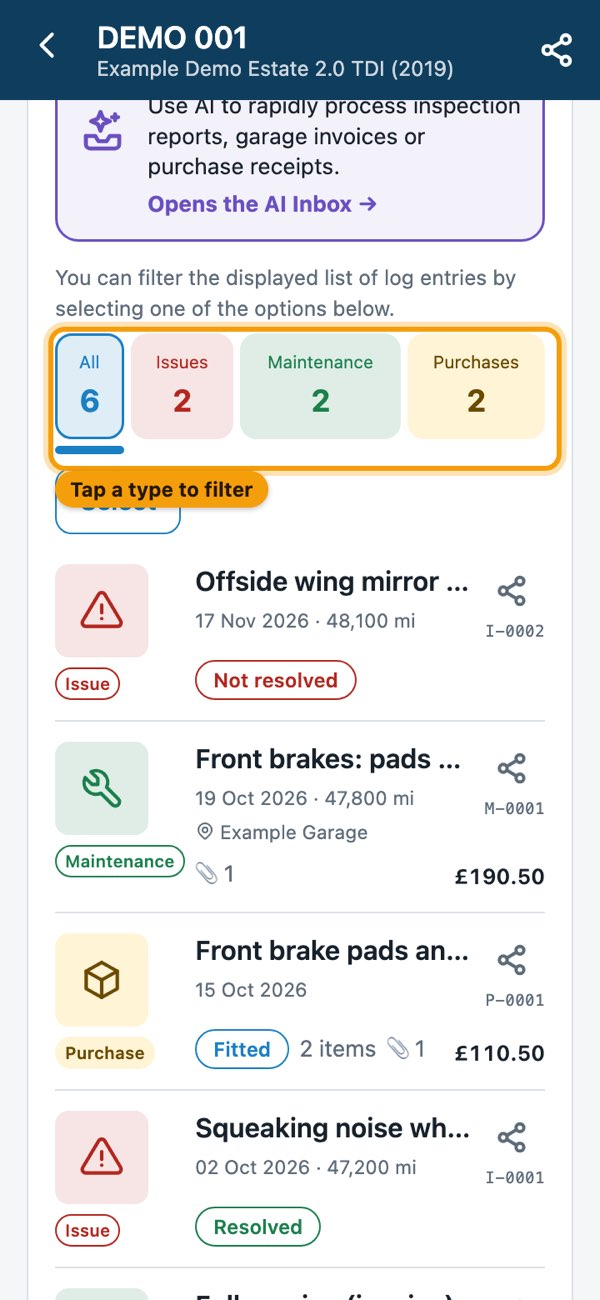
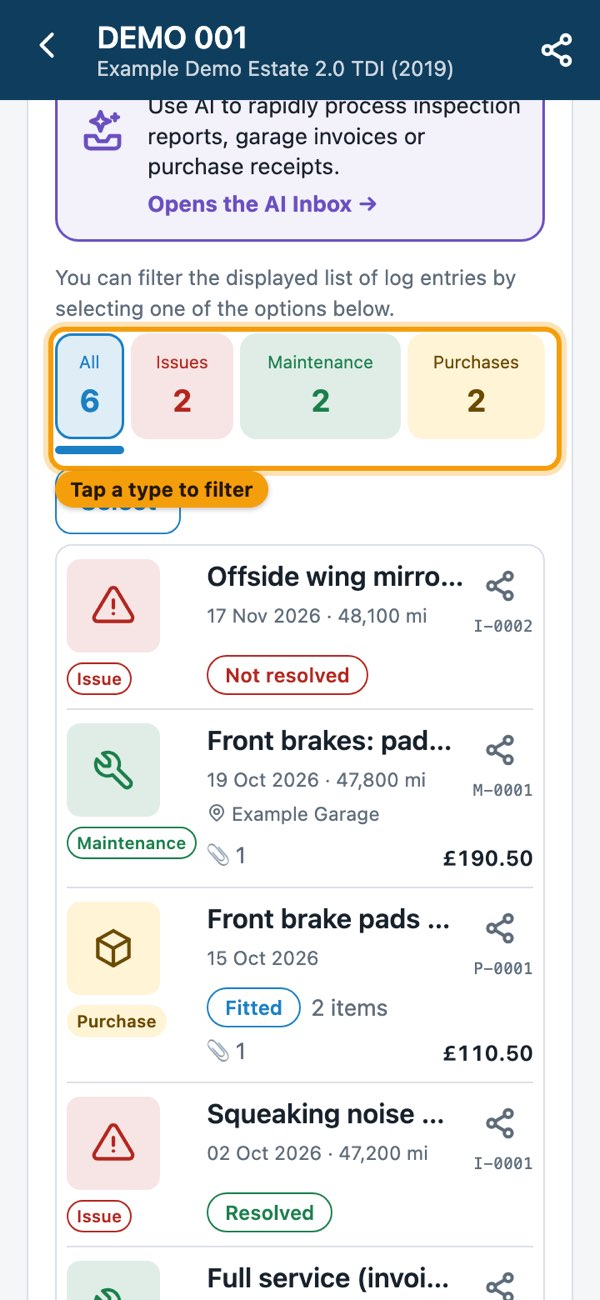
Car page: log first, then Fluids | Bulbs | Parts, then Odometer; the log shows five entries and scrolls, and the three sections are shorter

Changed region(s): [[0.09, 0.4308, 0.93, 1.0], [0.81, 0.9538, 0.87, 1.0]]

diff --git a/web/views-cars.js b/web/views-cars.js
@@ -339,7 +339,7 @@
   }
 
   // which sections of a car's page are open (kept so that coming back to the page finds it as it was left)
-  Views.getOpenCards = function () { return { carId: openCards.carId, keys: Object.assign({}, openCards.keys) }; };
+  Views.getOpenCards = function () { return { carId: openCards.carId, keys: Object.assign({}, openCards.keys), logTop: openCards.logTop }; };
   Views.setOpenCards = function (o) { openCards = o; };
   /** Open the named sections the next time this car's page is drawn (and only then). */
   Views.openCarSections = function (carId, keys) { openCards = { carId: carId, keys: keys, once: true }; };
@@ -523,23 +523,27 @@
           car.notes ? el('div', { class: 'car-notes' }, [el('div', { class: 'car-notes-label', text: 'Notes' }), notesEl, notesMore]) : null,
           mineBtn ? el('div', { class: 'btn-row' }, [mineBtn]) : null,
         ]),
-        collapsible('Odometer Log', el('section', { class: 'card' }, [
-          el('h2', { text: 'Odometer Log' }),
-          el('div', { class: 'big-number', text: car.odometer === null ? 'Not set' : num(car.odometer) + ' mi' }),
-          car.odometerUpdatedAt ? el('div', { class: 'muted small-text', text: 'Updated ' + fmtDate(car.odometerUpdatedAt) }) : null,
-          odoForm,
-        ]), car.odometer === null ? 'Not set' : num(car.odometer) + ' mi'),
-        collapsible('Maintenance & Issues Log', EntryUI.historyCard(car, page && page.entries), page && page.entries ? countText(page.entries.length, 'entry', 'entries') : ''),
-        collapsible('Reminders', RemindersUI.card(car, page && page.tasks), page && page.tasks ? reminderHint(page.tasks) : ''),
+        collapsible('Maintenance & Issues Log', EntryUI.historyCard(car, page && page.entries, openCards), page && page.entries ? countText(page.entries.length, 'entry', 'entries') : ''),
         collapsible('Fluids | Bulbs | Parts', el('section', { class: 'card' }, [
           el('h2', { text: 'Fluids | Bulbs | Parts' }),
           catalogueBox,
           fluids.some(isAiRow) ? aiCheckNote() : null,
-          fluidRows.length ? el('h3', { class: 'spec-group kind-fluid', text: '💧 Fluids' }) : null,
-          fluidRows.length ? el('ul', { class: 'fluids' }, fluidRows) : (bulbRows.length ? null : el('p', { class: 'muted', text: 'No fluid specs recorded yet. Tap Edit car to add them.' })),
-          bulbRows.length ? el('h3', { class: 'spec-group kind-bulb', text: '💡 Bulbs' }) : null,
-          bulbRows.length ? el('ul', { class: 'fluids' }, bulbRows) : null,
+          fluidRows.length || bulbRows.length ? el('div', { class: 'spec-scroll', role: 'region', tabindex: '0', 'aria-label': 'Fluids and bulbs' }, [
+            fluidRows.length ? el('h3', { class: 'spec-group kind-fluid', text: '💧 Fluids' }) : null,
+            fluidRows.length ? el('ul', { class: 'fluids' }, fluidRows) : null,
+            bulbRows.length ? el('h3', { class: 'spec-group kind-bulb', text: '💡 Bulbs' }) : null,
+            bulbRows.length ? el('ul', { class: 'fluids' }, bulbRows) : null,
+          ]) : el('p', { class: 'muted', text: 'No fluid specs recorded yet. Tap Edit car to add them.' }),
         ]), '', el('a', { class: 'btn small secondary section-edit', href: '#/car/' + car.id + '/fluids', text: 'Edit', 'aria-label': 'Edit the fluids, bulbs and specifications' })),
+        collapsible('Odometer Log', el('section', { class: 'card' }, [
+          el('h2', { text: 'Odometer Log' }),
+          el('div', { class: 'odo-now' }, [
+            el('div', { class: 'big-number', text: car.odometer === null ? 'Not set' : num(car.odometer) + ' mi' }),
+            car.odometerUpdatedAt ? el('div', { class: 'muted small-text', text: 'Updated ' + fmtDate(car.odometerUpdatedAt) }) : null,
+          ]),
+          odoForm,
+        ]), car.odometer === null ? 'Not set' : num(car.odometer) + ' mi'),
+        collapsible('Reminders', RemindersUI.card(car, page && page.tasks), page && page.tasks ? reminderHint(page.tasks) : ''),
         collapsible('Documents', DocumentsUI.card(car, page && page.documents), page && page.documents ? countText(page.documents.length, 'document', 'documents') : ''),
         collapsible('Costs', EntryUI.costsCard(car, page && page.costs)),
         collapsible('Guest access', GuestUI.card(car), car.guestEnabled ? 'On' : 'Off'),

diff --git a/web/views-entries.js b/web/views-entries.js
@@ -195,7 +195,12 @@
     return card;
   }
 
-  function historyCard(car, preloaded) {
+  // The log shows this many entries at a time; the rest are reached by scrolling inside the list.
+  var LOG_ROWS = 5;
+
+  // `place` remembers how far the list had been scrolled (place.logTop), so coming back from an entry finds it there.
+  function historyCard(car, preloaded, place) {
+    place = place || {};
     var chips = el('div', { class: 'filter-box', role: 'group', 'aria-label': 'Filter the history' });
     var list = el('div', { class: 'history' }, [fmt.loading()]);
     var filter = 'All';
@@ -410,7 +415,7 @@
             el('span', { class: 'ft-name', text: t === 'All' ? 'All' : PLURAL[t] }),
             el('b', { class: 'ft-count', text: String(t === 'All' ? data.length : (counts[t] || 0)) }),
           ]);
-          b.addEventListener('click', function () { filter = t; render(); });
+          b.addEventListener('click', function () { filter = t; place.logTop = 0; render(); });
           tiles.append(b);
         });
         // a bar under the chosen tile: it glides from where it was to where it now belongs
@@ -422,9 +427,34 @@
       }
       var shown = data.filter(function (e) { return filter === 'All' || e.type === filter; });
       if (selecting) updateSelectUi();
+      var top = place.logTop || 0;
       list.replaceChildren.apply(list, shown.length ? shown.map(row)
         : [el('p', { class: 'muted', text: data.length ? 'No ' + (filter === 'All' ? 'entries' : PLURAL[filter].toLowerCase()) + ' yet.' : 'Nothing recorded yet. Add the first entry above.' })]);
+      var more = shown.length - LOG_ROWS;
+      list.classList.toggle('scrolls', more > 0);
+      moreNote.hidden = more <= 0;
+      moreNote.textContent = more > 0 ? 'Scroll the list to see ' + more + ' more.' : '';
+      if (more <= 0) list.style.maxHeight = '';
+      backTo = top;
+      if (sizes) {
+        // measured when the rows get their size: at once if the section is open, otherwise when it is opened
+        sizes.disconnect();
+        if (more > 0) Array.prototype.slice.call(list.children, 0, LOG_ROWS).forEach(function (line) { sizes.observe(line); });
+      }
     }
+
+    // As tall as the first five rows exactly (rows differ in height, so it is measured rather than fixed)
+    var backTo = null; // where to scroll the list to once it has its height (null once done)
+    function fitList() {
+      if (!list.classList.contains('scrolls')) return;
+      var height = list.children[LOG_ROWS - 1].getBoundingClientRect().bottom - list.children[0].getBoundingClientRect().top;
+      if (height <= 0) return;
+      list.style.maxHeight = Math.ceil(height) + (list.offsetHeight - list.clientHeight) + 'px'; // plus the box's own border
+      if (backTo !== null) { list.scrollTop = backTo; backTo = null; } // also back to the top after a change of filter
+    }
+    var sizes = window.ResizeObserver ? new window.ResizeObserver(fitList) : null;
+    var moreNote = el('p', { class: 'muted small-text center history-more', hidden: true });
+    list.addEventListener('scroll', function () { if (list.clientHeight) place.logTop = list.scrollTop; });
 
     function show(entries) {
       data = entries;
@@ -445,7 +475,7 @@
       el('h2', { text: 'Maintenance & Issues Log' }),
       el('a', { class: 'btn block big', href: '#/car/' + car.id + '/add', text: 'Manually log an entry' }),
       aiButton,
-      chips, selectTools, list,
+      chips, selectTools, list, moreNote,
     ]);
   }
 

diff --git a/web/styles.css b/web/styles.css
@@ -307,8 +307,6 @@ input[type="file"] { width: 100%; font: inherit; font-size: 16px; padding: 10px 
 .role-boxes { display: flex; flex-wrap: wrap; gap: 0 20px; margin-top: 4px; }
 .mine { display: flex; gap: 6px; flex-wrap: wrap; margin-top: 6px; }
 
-.catalogue { margin-top: 14px; padding-top: 12px; border-top: 1px solid var(--border); }
-
 .add-car { margin-top: 24px; padding-top: 14px; border-top: 1px solid var(--border); text-align: center; }
 .add-car p { margin: 0 0 8px; }
 
@@ -1286,3 +1284,16 @@ input[name="vin"] { letter-spacing: -0.01em; padding-left: 8px; padding-right: 8
 .report-photo select { width: auto; max-width: 55%; }
 .report-page .report-issues + .btn { margin-bottom: 14px; }
 .report-later { display: block; text-align: center; padding: 12px; font-weight: 600; }
+
+/* the car page's log, specs and odometer are kept short: the lists scroll inside a box */
+.history.scrolls { max-height: 540px; overflow-y: auto; border: 1px solid var(--border); border-radius: 10px; padding: 0 6px; } /* the height is then set to five rows exactly */
+.history .entry-line:not(.is-editing) { padding: 8px 0; }
+.history-more { margin: 6px 0 0; }
+.history-more[hidden] { display: none; }
+.spec-scroll { max-height: 340px; overflow-y: auto; border: 1px solid var(--border); border-radius: 10px; padding: 0 8px 4px; }
+.spec-scroll .spec-group { margin: 8px 0 4px; }
+.spec-scroll .fluid { padding-top: 6px; padding-bottom: 6px; font-size: 0.92rem; line-height: 1.35; }
+.odo-now { display: flex; flex-wrap: wrap; align-items: baseline; justify-content: space-between; gap: 0 12px; }
+.odo-now .big-number { font-size: 1.4rem; }
+.odo-now + .inline-form { margin-top: 6px; }
+.catalogues { gap: 6px; }
